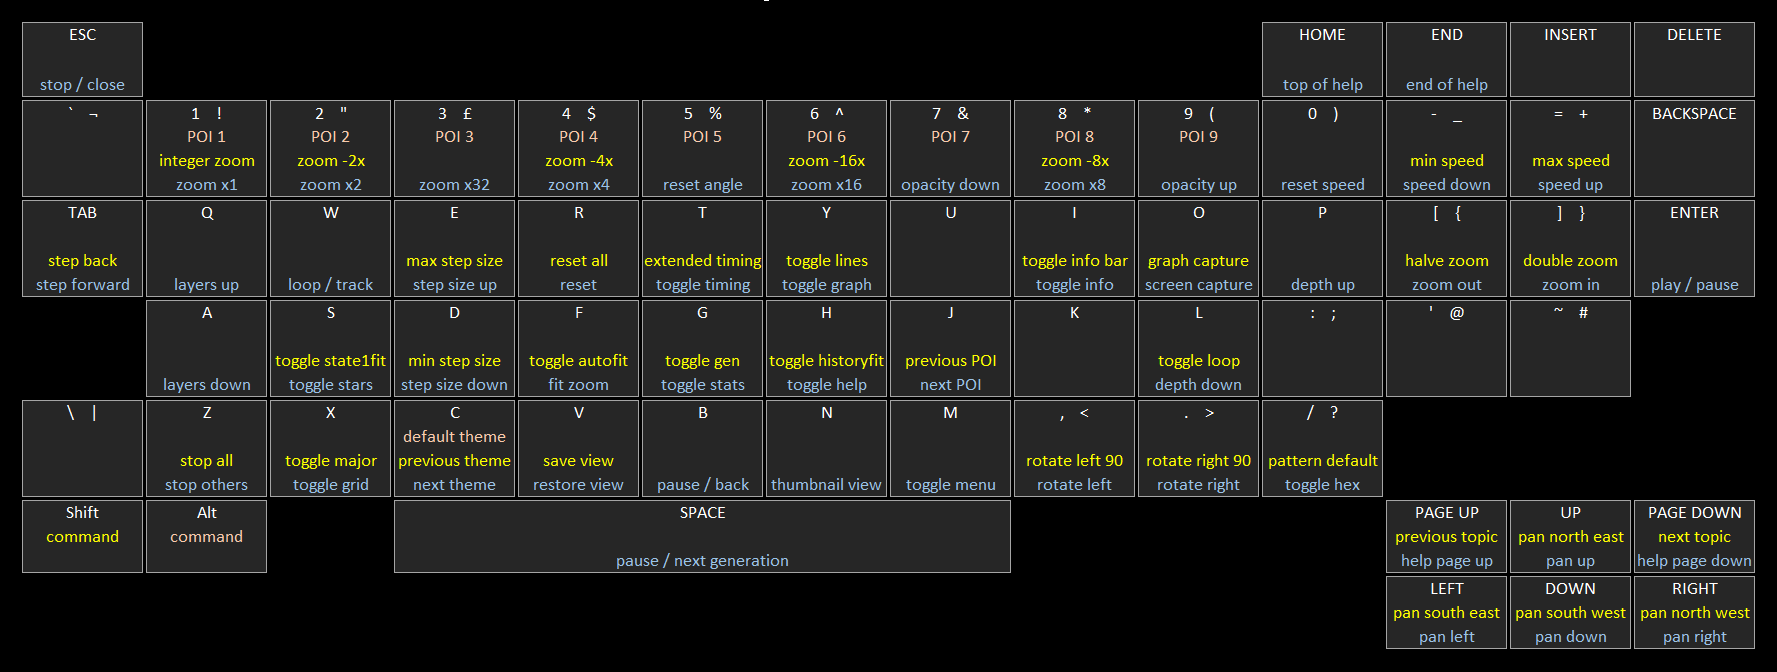
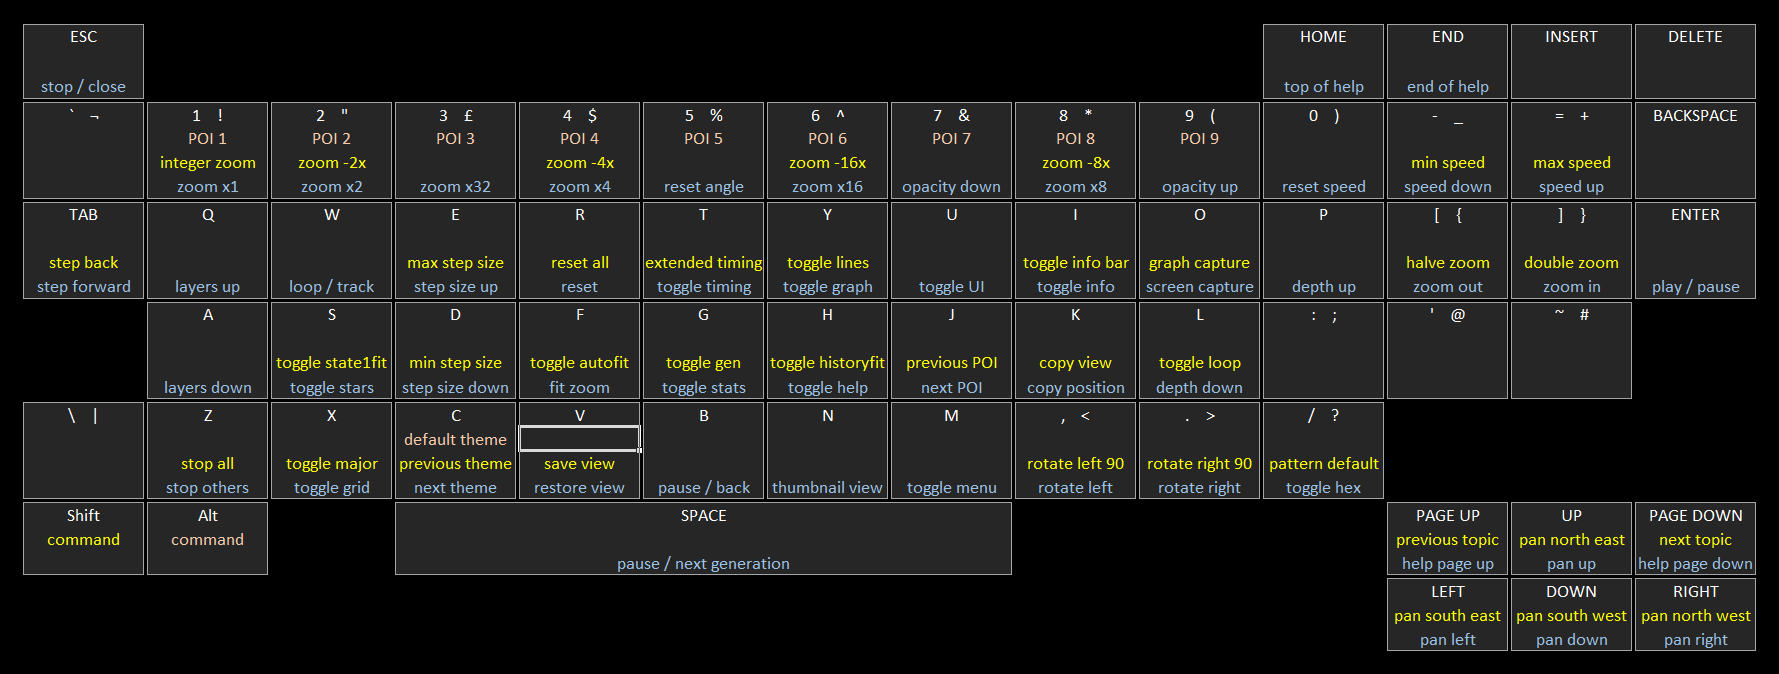
bounded grid fixes

diff --git a/js/lifeview.js b/js/lifeview.js
@@ -145,7 +145,7 @@
 		/** @const {string} */ versionName : "LifeViewer Plugin",
 
 		// build version
-		/** @const {number} */ versionBuild : 258,
+		/** @const {number} */ versionBuild : 259,
 
 		// author
 		/** @const {string} */ versionAuthor : "Chris Rowett",
@@ -1194,6 +1194,30 @@
 		}
 	};
 
+	// whether grid is finitely bounded
+	View.prototype.finitelyBounded = function() {
+		var result = false;
+
+		// check for a bounded grid with non-zero (not infinite) width or height
+		if (this.engine.boundedGridType !== -1 && this.engine.boundedGridWidth !== 0 && this.engine.boundedGridHeight !== 0) {
+			result = true;
+		}
+
+		return result;
+	};
+
+	// whether grid is infinitely bounded
+	View.prototype.infinitelyBounded = function() {
+		var result = false;
+
+		// check for a bounded grid with a zero (infinite) width or height
+		if (this.engine.boundedGridType !== -1 && (this.engine.boundedGridWidth === 0 || this.engine.boundedGridHeight === 0)) {
+			result = true;
+		}
+
+		return result;
+	};
+
 	// opacity range
 	View.prototype.viewOpacityRange = function(newValue, change, me) {
 		var result = newValue[0];
@@ -2236,16 +2260,28 @@
 		// update population counter label
 		me.popValue.preText = me.shortenNumber(me.engine.population);
 
-		// update births label
-		me.birthsValue.preText = me.shortenNumber(me.engine.births);
-
-		// update deaths label
-		me.deathsValue.preText = me.shortenNumber(me.engine.deaths);
+		if (me.finitelyBounded()) {
+			// update births label with density
+			me.birthsValue.preText = (((me.engine.population * 100) / (me.engine.boundedGridHeight * me.engine.boundedGridWidth)) | 0) + "%";
+		}
+		else {
+			// update births label
+			me.birthsValue.preText = me.shortenNumber(me.engine.births);
+			// update deaths label
+			me.deathsValue.preText = me.shortenNumber(me.engine.deaths);
+		}
 
 		// update tool tips for alive, births and deaths
 		me.popValue.toolTip = "alive " + me.engine.population;
-		me.birthsValue.toolTip = "births " + me.engine.births;
-		me.deathsValue.toolTip = "deaths " + me.engine.deaths;
+		if (me.finitelyBounded()) {
+			// show density
+            me.birthsValue.toolTip = "density " + (((me.engine.population * 100) / (me.engine.boundedGridHeight * me.engine.boundedGridWidth)) | 0) + "%";
+		}
+		else {
+			// show births and deaths
+			me.birthsValue.toolTip = "births " + me.engine.births;
+			me.deathsValue.toolTip = "deaths " + me.engine.deaths;
+		}
 
 		// update gps and step control background based on performance
 		// check for STEP skip
@@ -2375,10 +2411,10 @@
 		this.elapsedTimeLabel.deleted = hide;
 		this.popLabel.deleted = hide;
 		this.popValue.deleted = hide;
-		this.birthsLabel.deleted = hide;
-		this.birthsValue.deleted = hide;
-		this.deathsLabel.deleted = hide;
-		this.deathsValue.deleted = hide;
+		this.birthsLabel.deleted = hide || this.infinitelyBounded();
+		this.birthsValue.deleted = hide || this.infinitelyBounded();
+		this.deathsLabel.deleted = hide || this.finitelyBounded() || this.infinitelyBounded();
+		this.deathsValue.deleted = hide || this.finitelyBounded() || this.infinitelyBounded();
 		this.ruleLabel.deleted = hide;
 
 		// navigation menu
@@ -4074,8 +4110,11 @@
 
 	// add the current position to the clipboard as script commands
 	View.prototype.copyPosition = function(me, full) {
-		// start with script start
-		var string = Keywords.scriptStartWord + " ",
+		// comment prefix
+		var commentPrefix = "#C ",
+
+		    // start with script start command
+		    string = commentPrefix + Keywords.scriptStartWord + " ",
 
 		    // compute the x and y coordinates
 		    xVal = -((me.engine.width / 2 - me.engine.xOff - me.engine.originX) | 0),
@@ -4117,7 +4156,7 @@
 		// check for view
 		if (full) {
 			// add start word
-			string += Keywords.scriptStartWord + " ";
+			string += commentPrefix + Keywords.scriptStartWord + " ";
 
 			// add theme
 			string += Keywords.themeWord + " " + me.engine.colourTheme + " "; 
@@ -10126,6 +10165,16 @@
 
 		// set saved view to current view
 		this.saveCamera(this);
+
+		// if grid is finitely bounded then show density rather than births and deaths
+		if (this.finitelyBounded()) {
+			this.birthsLabel.preText = "Density";
+			this.birthsLabel.toolTip = "cell density";
+		}
+		else {
+			this.birthsLabel.preText = "Births"
+			this.birthsLabel.toolTip = "cells born this generation";
+		}
 
 		// ensure update
 		this.menuManager.toggleRequired = true;

diff --git a/js/life.js b/js/life.js
@@ -3388,11 +3388,16 @@
 
 		    // left and right mask
 		    leftMask = ~(1 << (~(leftX - extra) & 15)),
-		    rightMask = ~(1 << (~(rightX + extra) & 15)),
+			rightMask = ~(1 << (~(rightX + extra) & 15)),
 
 		    // counters
 		    x = 0,
-		    y = 0;
+			y = 0,
+			
+			// cell population to adjust
+			bitCounts16 = this.bitCounts16,
+			remove = 0,
+			gridy = null;
 
 		// determine the buffer for current generation
 		if ((this.counter & 1) !== 0) {
@@ -3412,7 +3417,9 @@
 			left16 = 0;
 			right16 = this.width >> 4;
 			for (x = left16; x < right16; x += 1) {
+				remove += bitCounts16[bottomRow[x]];
 				bottomRow[x] = 0;
+				remove += bitCounts16[topRow[x]];
 				topRow[x] = 0;
 			}
 		}
@@ -3423,24 +3430,43 @@
 				bottomY = 0;
 				topY = this.height;
 				for (y = 0; y < topY; y += 1) {
-					grid[y][leftWord] &= leftMask;
-					grid[y][rightWord] &= rightMask;
+					gridy = grid[y]
+					if (gridy[leftWord] & ~leftMask) {
+						remove += 1;
+					}
+					gridy[leftWord] &= leftMask;
+					if (gridy[rightWord] & ~rightMask) {
+						remove += 1;
+					}
+					gridy[rightWord] &= rightMask;
 				}
 			}
 			else {
 				// clear top and bottom boundary
 				for (x = left16; x <= right16; x += 1) {
+					remove += bitCounts16[bottomRow[x]];
 					bottomRow[x] = 0;
+					remove += bitCounts16[topRow[x]];
 					topRow[x] = 0;
 				}
 
 				// clear left and right boundary
 				for (y = bottomY - extra + 1; y <= topY + extra - 1; y += 1) {
-					grid[y][leftWord] &= leftMask;
-					grid[y][rightWord] &= rightMask;
+					gridy = grid[y];
+					if (gridy[leftWord] & ~leftMask) {
+						remove += 1;
+					}
+					gridy[leftWord] &= leftMask;
+					if (gridy[rightWord] & ~rightMask) {
+						remove += 1;
+					}
+					gridy[rightWord] &= rightMask;
 				}
 			}
 		}
+
+		// adjust population
+		this.population -= remove;
 
 		// check for Generations or LTL
 		if (this.multiNumStates !== -1) {
@@ -4583,11 +4609,14 @@
 			}
 		}
 
-		// draw deaths
-		this.renderGraph(ctx, graphDeathColor, displayX, graphHeight - borderY - borderAxis, borderX, borderY, borderAxis, this.deathGraphData, lines);
+		// only draw births and deaths if grid is not bounded
+		if (this.boundedGridType === -1) {
+			// draw deaths
+			this.renderGraph(ctx, graphDeathColor, displayX, graphHeight - borderY - borderAxis, borderX, borderY, borderAxis, this.deathGraphData, lines);
 
-		// draw births
-		this.renderGraph(ctx, graphBirthColor, displayX, graphHeight - borderY - borderAxis, borderX, borderY, borderAxis, this.birthGraphData, lines);
+			// draw births
+			this.renderGraph(ctx, graphBirthColor, displayX, graphHeight - borderY - borderAxis, borderX, borderY, borderAxis, this.birthGraphData, lines);
+		}
 
 		// draw population
 		this.renderGraph(ctx, graphAliveColor, displayX, graphHeight - borderY - borderAxis, borderX, borderY, borderAxis, this.popGraphData, lines);
